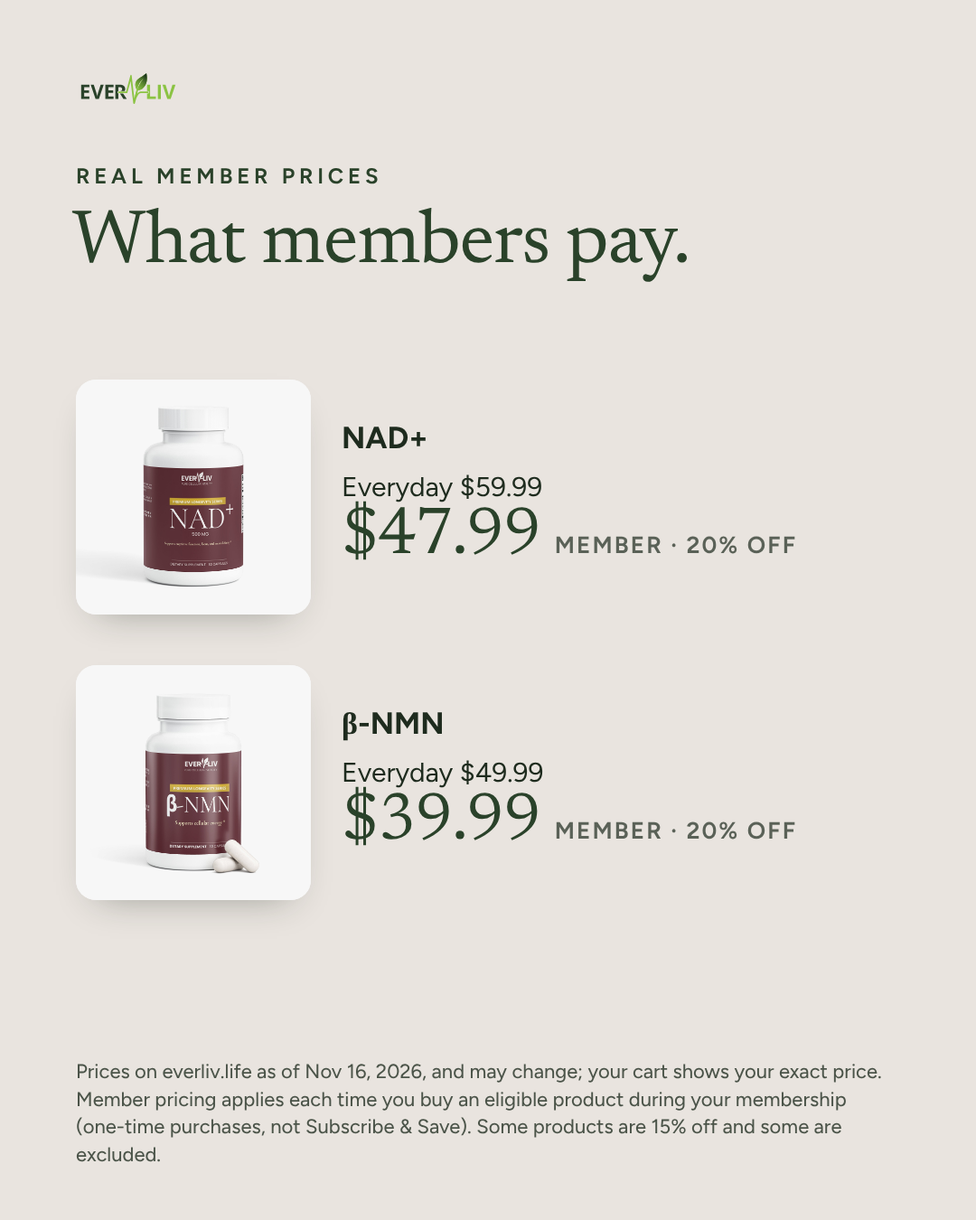
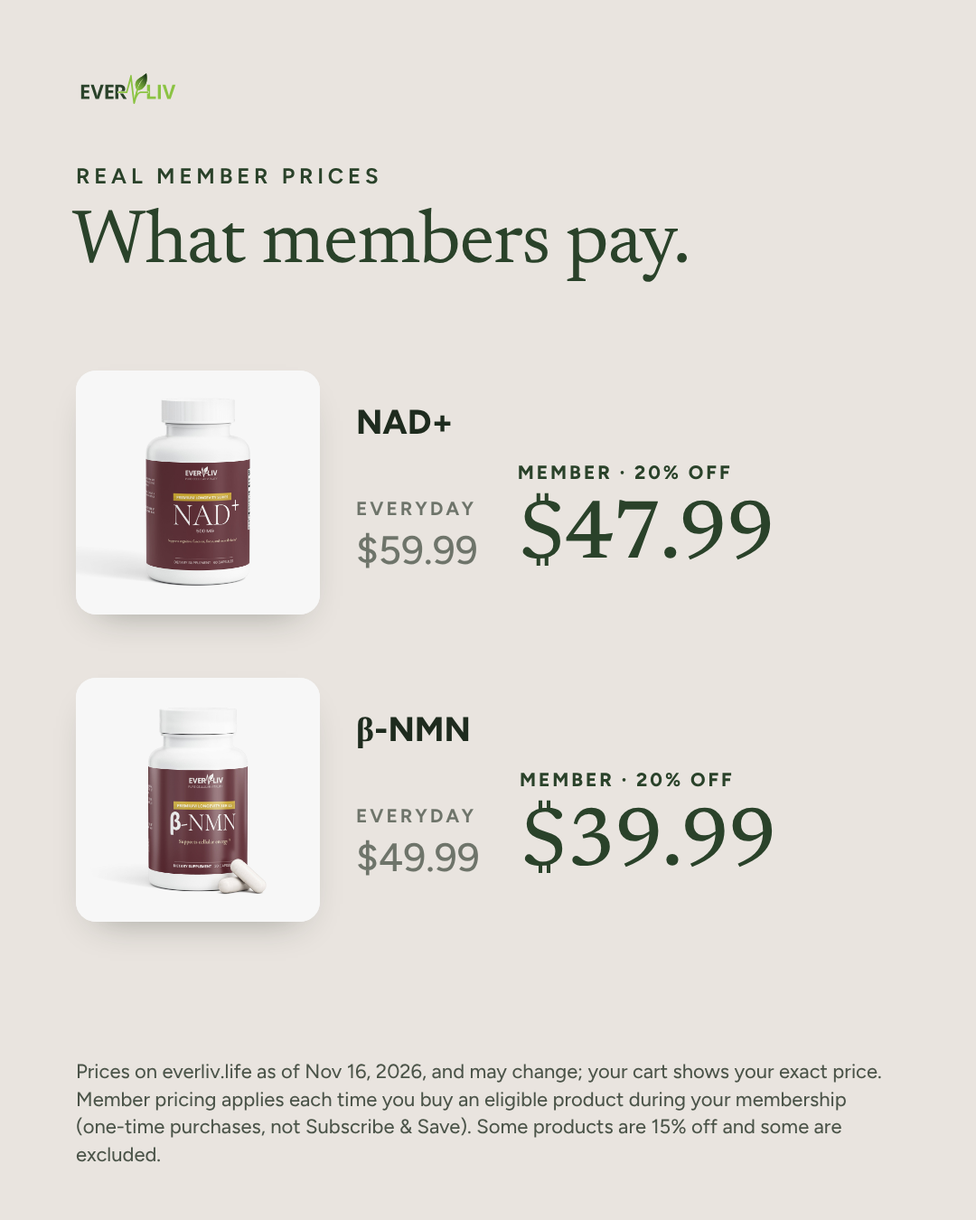
Founding Members rev 3: slide 3 price legibility, sticker zone, Shopify Messaging build sheet, single Restructuring handoff updated
Claude-Session: https://claude.ai/code/session_01XtbQQjuhLfL9EX7cTct2eV

diff --git a/campaigns/2026-founding-members/round-1/FM-02-carousel-3-what-members-pay_1080x1350.html b/campaigns/2026-founding-members/round-1/FM-02-carousel-3-what-members-pay_1080x1350.html
@@ -29,17 +29,25 @@ body{width:var(--w);height:var(--h);overflow:hidden;font-family:FT;-webkit-font-
 <img class="logo" src="file:///home/claude/fm/src/logo.svg" style="left:84px;top:78px;height:40px">
 <div class="eyebrow" style="position:absolute;left:84px;top:180px;color:#2A422A">Real member prices</div>
 <div class="serif" style="position:absolute;left:80px;top:228px;font-size:84px;line-height:1.02;color:#2A422A">What members pay.</div>
-<div style="position:absolute;left:84px;right:84px;top:420px;display:grid;gap:56px">
- <div style="display:flex;gap:34px;align-items:center">
-     <div class="tile" style="width:260px;height:260px;flex:none"><img src="file:///home/claude/fm/src/everliv-nad.jpg"></div>
-     <div><div style="font-size:34px;font-weight:700;line-height:1.2">NAD+</div>
-       <div style="margin-top:14px;font-size:30px">Everyday $59.99</div>
-       <div class="serif" style="font-size:74px;line-height:1.05;color:#2A422A">$47.99 <span style="font-family:FT;font-size:26px;font-weight:650;letter-spacing:.08em;color:#1E2B1E;opacity:.7">MEMBER · 20% OFF</span></div></div></div>
- <div style="display:flex;gap:34px;align-items:center">
-     <div class="tile" style="width:260px;height:260px;flex:none"><img src="file:///home/claude/fm/src/everliv-b-nmn.jpg"></div>
-     <div><div style="font-size:34px;font-weight:700;line-height:1.2">β-NMN</div>
-       <div style="margin-top:14px;font-size:30px">Everyday $49.99</div>
-       <div class="serif" style="font-size:74px;line-height:1.05;color:#2A422A">$39.99 <span style="font-family:FT;font-size:26px;font-weight:650;letter-spacing:.08em;color:#1E2B1E;opacity:.7">MEMBER · 20% OFF</span></div></div></div>
+<div style="position:absolute;left:84px;right:84px;top:410px;display:grid;gap:70px">
+ <div style="display:flex;gap:40px;align-items:center">
+     <div class="tile" style="width:270px;height:270px;flex:none"><img src="file:///home/claude/fm/src/everliv-nad.jpg"></div>
+     <div style="flex:1"><div style="font-size:38px;font-weight:750;line-height:1.15">NAD+</div>
+       <div style="display:flex;gap:44px;align-items:flex-end;margin-top:20px">
+         <div><div style="font-size:21px;font-weight:700;letter-spacing:.14em;opacity:.6">EVERYDAY</div>
+              <div style="font-size:44px;font-weight:500;line-height:1.1;margin-top:10px;margin-bottom:10px;opacity:.6">$59.99</div></div>
+         <div><div style="font-size:21px;font-weight:750;letter-spacing:.14em;color:#2A422A">MEMBER · 20% OFF</div>
+              <div class="serif" style="font-size:92px;line-height:1.05;margin-top:12px;color:#2A422A;font-weight:500">$47.99</div></div>
+       </div></div></div>
+ <div style="display:flex;gap:40px;align-items:center">
+     <div class="tile" style="width:270px;height:270px;flex:none"><img src="file:///home/claude/fm/src/everliv-b-nmn.jpg"></div>
+     <div style="flex:1"><div style="font-size:38px;font-weight:750;line-height:1.15">β-NMN</div>
+       <div style="display:flex;gap:44px;align-items:flex-end;margin-top:20px">
+         <div><div style="font-size:21px;font-weight:700;letter-spacing:.14em;opacity:.6">EVERYDAY</div>
+              <div style="font-size:44px;font-weight:500;line-height:1.1;margin-top:10px;margin-bottom:10px;opacity:.6">$49.99</div></div>
+         <div><div style="font-size:21px;font-weight:750;letter-spacing:.14em;color:#2A422A">MEMBER · 20% OFF</div>
+              <div class="serif" style="font-size:92px;line-height:1.05;margin-top:12px;color:#2A422A;font-weight:500">$39.99</div></div>
+       </div></div></div>
 </div>
 <div class="fine" style="position:absolute;left:84px;right:84px;bottom:56px">Prices on everliv.life as of Nov 16, 2026, and may change; your cart shows your exact price. Member pricing applies each time you buy an eligible product during your membership (one-time purchases, not Subscribe &amp; Save). Some products are 15% off and some are excluded.</div>
 </div></body></html>

diff --git a/campaigns/2026-founding-members/round-1/FM-05-email-black-friday.html b/campaigns/2026-founding-members/round-1/FM-05-email-black-friday.html
@@ -3,7 +3,7 @@
 <!-- Preheader --><div style="display:none;max-height:0;overflow:hidden">A full year of member pricing. $49.99, paid once. Founding price through January 31, 2027.</div>
 <table role="presentation" width="100%" cellpadding="0" cellspacing="0" style="background:#E9E4DF"><tr><td align="center" style="padding:24px 12px">
 <table role="presentation" width="100%" cellpadding="0" cellspacing="0" style="width:100%;max-width:600px;background:#ffffff;border-radius:14px;overflow:hidden">
-<tr><td><img src="FM-04-email-header_1200x600.png" width="600" alt="EverLiv Founding Member card. Become a Founding Member: a full year of member pricing, $49.99 paid once." style="display:block;width:100%;height:auto;border:0"></td></tr>
+<tr><td><img src="FM-04-email-header_1200x600.png" data-shopify-note="In Shopify Messaging, upload this file in an Image block (Shopify hosts it); do not reference a local filename" width="600" alt="EverLiv Founding Member card. Become a Founding Member: a full year of member pricing, $49.99 paid once." style="display:block;width:100%;height:auto;border:0"></td></tr>
 <tr><td class="px" style="padding:36px 40px 8px">
 <p style="margin:0 0 16px;font-size:17px;line-height:1.55">This Black Friday, we're not discounting products. We're opening membership.</p>
 <p style="margin:0 0 16px;font-size:17px;line-height:1.55">Join EverLiv Member Price Club as a Founding Member for <b>$49.99, paid once</b>. For the next 12 months, you get <b>member pricing every time you buy an eligible product</b>, as often as you like, across strips, capsules, powders and more.</p>
@@ -20,6 +20,6 @@
 <p style="margin:14px 0 0;font-size:14px;color:#5a665a">From February 1, 2027, membership is $69.99.</p>
 </td></tr>
 <tr><td class="px" style="padding:0 40px 32px;font-size:12px;line-height:1.55;color:#6b746b">
-Founding price $49.99 applies to memberships bought through January 31, 2027 (Eastern Time); $69.99 from February 1, 2027. Membership is a single payment, lasts 12 months from activation and does not renew automatically. During your membership, member pricing applies to every eligible one-time product purchase (not Subscribe &amp; Save): 20% or 15% off depending on the product, some products excluded. Doesn't combine with Subscribe &amp; Save, bundles, partner pricing or promo codes. Savings depend on what you buy and aren't guaranteed to exceed the fee. Refunds: full refund within 3 business days; within 30 days, a full refund if member pricing is unused, otherwise the fee minus savings received. Not currently available to residents of California or North Carolina. See the Membership Terms at everliv.life.<br><br>
-EverLiv LLC · 30 N Gould St. Ste R, Sheridan, WY 82801 · <a href="{{unsubscribe}}" style="color:#6b746b">Unsubscribe</a>
+Founding price $49.99 applies to memberships bought through January 31, 2027 (Eastern Time); $69.99 from February 1, 2027. Membership is a single payment, lasts 12 months from activation and does not renew automatically. During your membership, member pricing applies to every eligible one-time product purchase (not Subscribe &amp; Save): 20% or 15% off depending on the product, some products excluded. Doesn't combine with Subscribe &amp; Save, bundles, partner pricing or promo codes. Savings depend on what you buy and aren't guaranteed to exceed the fee. Refunds: full refund within 3 business days; within 30 days, a full refund if member pricing is unused, otherwise the fee minus savings received. Not currently available to residents of California or North Carolina. See the Membership Terms at everliv.life.
+<!-- Store address, unsubscribe link and required footer are added automatically by Shopify Messaging. Do not add a manual unsubscribe link. -->
 </td></tr></table></td></tr></table></body></html>

diff --git a/campaigns/2026-founding-members/round-1/build.py b/campaigns/2026-founding-members/round-1/build.py
@@ -86,16 +86,20 @@ A['FM-02-carousel-2-what-you-get_1080x1350'] = (1080,1350,'ivory',f"""
 """)
 
 def ex(img,name,reg,mem,pct):
-    return f"""<div style="display:flex;gap:34px;align-items:center">
-     <div class="tile" style="width:260px;height:260px;flex:none"><img src="{u(img)}"></div>
-     <div><div style="font-size:34px;font-weight:700;line-height:1.2">{name}</div>
-       <div style="margin-top:14px;font-size:30px">Everyday ${reg}</div>
-       <div class="serif" style="font-size:74px;line-height:1.05;color:{LEAF}">${mem} <span style="font-family:FT;font-size:26px;font-weight:650;letter-spacing:.08em;color:{INK};opacity:.7">MEMBER · {pct}% OFF</span></div></div></div>"""
+    return f"""<div style="display:flex;gap:40px;align-items:center">
+     <div class="tile" style="width:270px;height:270px;flex:none"><img src="{u(img)}"></div>
+     <div style="flex:1"><div style="font-size:38px;font-weight:750;line-height:1.15">{name}</div>
+       <div style="display:flex;gap:44px;align-items:flex-end;margin-top:20px">
+         <div><div style="font-size:21px;font-weight:700;letter-spacing:.14em;opacity:.6">EVERYDAY</div>
+              <div style="font-size:44px;font-weight:500;line-height:1.1;margin-top:10px;margin-bottom:10px;opacity:.6">${reg}</div></div>
+         <div><div style="font-size:21px;font-weight:750;letter-spacing:.14em;color:{LEAF}">MEMBER · {pct}% OFF</div>
+              <div class="serif" style="font-size:92px;line-height:1.05;margin-top:12px;color:{LEAF};font-weight:500">${mem}</div></div>
+       </div></div></div>"""
 A['FM-02-carousel-3-what-members-pay_1080x1350'] = (1080,1350,'ivory',f"""
 <img class="logo" src="{u('logo.svg')}" style="left:84px;top:78px;height:40px">
 <div class="eyebrow" style="position:absolute;left:84px;top:180px;color:{LEAF}">Real member prices</div>
 <div class="serif" style="position:absolute;left:80px;top:228px;font-size:84px;line-height:1.02;color:{LEAF}">What members pay.</div>
-<div style="position:absolute;left:84px;right:84px;top:420px;display:grid;gap:56px">
+<div style="position:absolute;left:84px;right:84px;top:410px;display:grid;gap:70px">
  {ex('everliv-nad.jpg','NAD+','59.99','47.99',20)}
  {ex('everliv-b-nmn.jpg','β-NMN','49.99','39.99',20)}
 </div>

diff --git a/campaigns/2026-founding-members/round-1/FM-captions-and-email-copy.md b/campaigns/2026-founding-members/round-1/FM-captions-and-email-copy.md
@@ -1,6 +1,16 @@
-# Founding Members: final-approval package (Round 1, revision 2)
-**Revised:** Nov 16, 2026, about 12:45 PM ET.
+# Founding Members: final-approval package (Round 1, revision 3)
+**Revised:** Nov 16, 2026, about 2:55 PM ET.
 **Status:** NOT scheduled, published or sent, and no paid ads. Launch depends on (a) Restructuring's shopping-flow repairs, verified end to end, and (b) Jeff's final approval.
+
+## Revision 3 changes (minor; design unchanged)
+1. **Carousel slide 3:** the prices are restructured for phone legibility. Each product now shows an "EVERYDAY" label over a 44 px grey price, then a "MEMBER · 20% OFF" label over a 92 px forest-green price. The product name is larger, at 38 px, and the tiles are slightly larger. The two prices sit side by side with clear labels, so they're easy to tell apart.
+2. **Story 3 link sticker:** the clean space is kept. **Place the sticker centred horizontally at about y = 1,000–1,240 px** of the 1,920 px frame, in the open green band between "$69.99 from February 1, 2027" and "Tap to join." It covers no text and stays clear of Instagram's top (250 px) and bottom (340 px) interface zones. In the app, that's roughly the middle of the screen, just above "Tap to join."
+3. **Email:**
+   - **Header image:** a Shopify Messaging build sheet is added (`FM-05-email-shopify-messaging-build-sheet.md`). The header is uploaded into a native Image block, so Shopify hosts it.
+   - **Footer:** the manual unsubscribe and address lines are removed from the reference HTML. Shopify Messaging adds the required footer and a working unsubscribe link.
+   - **CTA:** the URL with UTMs was re-verified at 2:50 PM and returns 200. The mobile layout was re-checked (fits 390 px).
+4. **Restructuring handoff:** updated in place, so it remains the single handoff. It now lists the five pages still showing "most eligible 20%" and states that CA/NC is **disclosed, not technically blocked**. It also asks only for evidence of checks that are genuinely outstanding, and confirms no change to Testosterone & NAD+ placements.
+5. **No other changes.** The card stays the primary visual, the "strips, capsules, powders and more" message stays, the break-even appears only in the carousel and email (not the launch image), and NAD+ and β-NMN remain the examples.
 
 ## Revision 2 changes (targeted; design unchanged)
 | # | Request | Change |
@@ -37,7 +47,7 @@
 | Join button | Disabled until the terms box is ticked, which is intended. Enabling it and checking out were not tested (no purchase). |
 | Mobile (375 px) NAD+ main "Add to Cart — $59.99" | ✓ Visible, enabled and tappable, with no horizontal overflow |
 | Mobile secondary "Add to Cart" further down the page | ⚠ My automated check couldn't confirm it's tappable. Restructuring should test it by hand. |
-| Member price after sign-in, cart, checkout, CA/NC restriction, purchase tracking | **Not testable by Marketing:** no accounts, purchases or test orders. These need Restructuring's end-to-end test. |
+| Member price after sign-in, cart, checkout, purchase tracking. (CA/NC is disclosed but not technically blocked, per owner.) | **Not testable by Marketing:** no accounts, purchases or test orders. These need Restructuring's end-to-end test. |
 
 ## Final launch-readiness checklist (to run after Restructuring reports its repairs complete; Marketing will re-run it)
 1. Member sign-in link works (desktop and mobile).
@@ -47,7 +57,7 @@
 5. Purchase tracking for the membership product is confirmed (GA4 and Meta purchase events). This is required before any paid ads.
 6. Strip availability is rechecked the morning of publishing. If Sleep or Collagen is back, the six-tin family image can return.
 7. Prices in carousel slide 3 are rechecked the morning of publishing.
-8. Ads geo-exclusion for CA and NC is confirmed in the ad account, if ads are approved later.
+8. If ads are approved later, the CA/NC geo-exclusion is set in the ad account. The restriction is disclosed on site but not technically blocked at checkout.
 
 ## Assets
 **Feed, 1080×1350:**
@@ -112,8 +122,30 @@
 
 **Body:** see `FM-05-email-black-friday.html`. On a 390 px phone screen it has no sideways scrolling, and the CTA is 300×52 px.
 
-**Unsubscribe:** the `{{unsubscribe}}` placeholder must be replaced by Shopify Messaging's own unsubscribe link and footer when the email is rebuilt there. Send only to opted-in subscribers.
+**Build:** in Shopify Messaging, use `FM-05-email-shopify-messaging-build-sheet.md`. Shopify hosts the header image and adds the footer and a working unsubscribe link. Send only to opted-in subscribers, after explicit approval.
 
 ## Still on hold
 - **Paid advertising.** Purchase tracking, the CA/NC geo-exclusion and membership restrictions all need to be verified first, and you need to approve a budget.
 - **Strip tins in paid ads.** They carry the unverified "Natural Extracts", so they stay in organic posts only.
+
+## Launch-readiness summary (2:55 PM ET, Nov 16)
+**Marketing: complete, pending your final approval**
+- Final assets: the launch post, 5-slide carousel, 3 stories and the email header.
+- Captions, alt text and UTMs.
+- The Shopify Messaging build sheet and reference email.
+- **Live check, 2:50 PM:**
+  - NAD+ $59.99 → $47.99 and β-NMN $49.99 → $39.99, both 20% and both available.
+  - The membership offer text ($49.99 through Jan 31, 2027 ET; $69.99 from Feb 1, 2027) is live.
+  - The CTA URL works.
+
+**Outstanding: Restructuring** (see the single handoff)
+1. Fix "most eligible 20%" on 5 pages. The terms page wording is the owner's or attorney's call.
+2. Evidence of enrollment, sign-in, cart and checkout passing on mobile and desktop.
+3. The secondary mobile "Add to Cart" button.
+4. GA4 and Meta Purchase events.
+5. Whether a CA/NC checkout block is planned.
+6. Inventory and price checks on launch morning.
+
+**Then:**
+- **Marketing:** a final live re-check on Nov 26 or 27, followed by your go/no-go.
+- **Jeff:** authorise publishing, the email send and (separately) any paid ads.

diff --git a/campaigns/2026-founding-members/round-1/restructuring-coordination-founding-launch-2026-11-16.md b/campaigns/2026-founding-members/round-1/restructuring-coordination-founding-launch-2026-11-16.md
@@ -1,12 +1,18 @@
-# Marketing → Restructuring: Founding Member launch coordination (Nov 16, 2026, 12:45 PM ET)
-Marketing has made **no live changes**. The Black Friday launch on Nov 27 depends on these items.
+# Marketing → Restructuring: Founding Member launch coordination (single handoff)
+**Updated:** Nov 16, 2026, 2:50 PM ET.
 
-| # | Item | Request |
+Marketing has made **no storefront changes**. This is the single handoff for the Nov 27 launch. **Where a check is already documented as passing, just link its evidence; there's no need to repeat it.**
+
+| # | Item | Status / request |
 |---|---|---|
-| 1 | **"Most eligible products 20%" is inaccurate** | Product pages show **19 products at 20%, 21 at 15%**, and 4 with no member price (membership, 2 wheys, Ultimate Bundle). The membership page, membership product page and Ways to Save all say "most eligible products 20%, some 15%". Suggested replacement: "20% or 15% off, depending on the product." All Marketing creative now uses this wording. |
-| 2 | **Peptide Eye Gel-Cream packaging discrepancy** | The store name is "Peptide Eye Gel-Cream", but the physical label (confirmed on a shipped unit, and matching Supliful's label file) reads "Peptide Eye Serum". Please confirm through your Supliful thread which name is final and whether a label change is planned. Marketing has pulled the product from the campaign's price examples until this is resolved. |
-| 3 | **End-to-end shopping test (mobile and desktop)**, needed before Marketing's final go | (a) Membership enrollment: add to cart → terms → checkout → confirmation email. (b) Sign in as a member → member price shown on a product page → cart → checkout, all matching. Test at least NAD+, β-NMN and one strip. (c) Mobile purchase buttons. Marketing's read-only check found the main "Add to Cart — $59.99" on NAD+ working at 375 px, but couldn't confirm the secondary "Add to Cart" further down the page. (d) The CA/NC restriction: how is it enforced at checkout? (e) GA4 and Meta Purchase events for the membership product. |
-| 4 | **Availability on launch morning (Nov 27)** | Confirm the status of Sleep and Collagen. Marketing's purchase-driving creative currently shows only Energy, Hydrate, Iron and D3+K2. |
-| 5 | **Minor** | The membership page still says "Our best everyday pricing" (from the earlier audit, item R21). |
+| 1 | **"Most eligible products 20%" is inaccurate** | Product pages show **19 products at 20%, 21 at 15%**, and 4 with no member price (membership, 2 wheys, Ultimate Bundle). The wording is **still live** as of 2:50 PM in: `/pages/membership` ("most products up to 20%, select products 15%"); `/products/everliv-founding-membership-annual` ("most eligible products are 20% off, some 15%"); `/pages/ways-to-save` ("most eligible products 20%, some 15%, some excluded"); `/pages/faq` (same); and `/pages/membership-terms` ("Most eligible products are 20% off; some are 15% off"). The terms page is attorney territory, so the owner decides. **Suggested replacement:** "20% or 15% off, depending on the product." All Marketing creative already uses this. |
+| 2 | **Enrollment, member sign-in, cart and checkout (mobile and desktop)** | Needs evidence (or links to passing results) for: membership add to cart → terms → checkout → confirmation email; signed-in member sees the member price on product, cart and checkout (NAD+, β-NMN and one strip); member sign-in links. Marketing's read-only check at 12:30 PM: the sign-in link reaches the Shopify login page. |
+| 3 | **Secondary mobile "Add to Cart"** | The main "Add to Cart — $59.99" on NAD+ works at 375 px. The second "Add to Cart" further down the page couldn't be confirmed by Marketing's check. Please confirm it, or link the evidence. |
+| 4 | **GA4 and Meta Purchase events** | Needs evidence that a membership purchase fires Purchase in GA4 (G-5330FJ4YNN) and Meta (1988505591941780). Page-view tracking was observed by Marketing. Paid ads stay held until this passes. |
+| 5 | **California / North Carolina** | The restriction is **disclosed, but not technically blocked at checkout** (owner, Nov 16). Marketing creative states "Not available to residents of CA or NC" and **never describes it as enforced**. Request: confirm whether a checkout block is planned, so paid ads (if approved later) can geo-exclude CA and NC. |
+| 6 | **Inventory and prices before Nov 27** | On launch morning, confirm availability and price for: NAD+ ($59.99 / $47.99 member), β-NMN ($49.99 / $39.99), Energy, Hydrate, Iron and D3+K2 strips, plus the status of Sleep and Collagen. All were verified live at 2:50 PM Nov 16. |
+| 7 | **Peptide Eye Gel-Cream name vs label** | The label reads "Peptide Eye Serum"; the store reads "Gel-Cream". This is with your Supliful thread. The campaign no longer uses this product, so it isn't a launch blocker. |
 
-**What Marketing needs back:** a pass/fail for each item in #3 (with timestamps), the decision on #2, and the final wording for #1. Marketing will then re-run its live checks and give Jeff the go/no-go.
+**No change requested to Testosterone & NAD+ placements.** It stays in its current homepage hero and featured placements (owner, Nov 16). Its availability is with Restructuring, pending Quantus documentation.
+
+**What Marketing needs back:** pass/fail with evidence (or links) for items 2–5, the decision on item 1, and the launch-morning results for item 6. Marketing will then give Jeff the final go/no-go.

diff --git a/campaigns/2026-founding-members/round-1/FM-05-email-shopify-messaging-build-sheet.md b/campaigns/2026-founding-members/round-1/FM-05-email-shopify-messaging-build-sheet.md
@@ -1,0 +1,37 @@
+# Founding Members launch email: Shopify Messaging build sheet
+**Status:** ready to build. **Do not send or schedule.** Send only to opted-in subscribers, and only after Jeff's explicit approval. **No test sends to customers.**
+
+## Why build it natively
+- **Header image:** uploading it into a Shopify Messaging **Image** block makes Shopify host it on its own CDN, so it displays in the sent email. Never point to a local filename.
+- **Footer:** Shopify Messaging adds the store address, a working **unsubscribe** link and the required footer to every marketing email. No manual unsubscribe link is needed; the reference HTML no longer contains one.
+
+## Blocks, in order
+| # | Shopify Messaging block | Content |
+|---|---|---|
+| — | **Subject** | Become a Founding Member *(alternatives: "This Black Friday, we're opening membership" · "A full year of member pricing, $49.99 once")* |
+| — | **Preview text** | A full year of member pricing. $49.99, paid once. Founding price through January 31, 2027. |
+| 1 | **Image** | Upload `FM-04-email-header_1200x600.png`. Full width. Alt text: "EverLiv Founding Member card. Become a Founding Member: a full year of member pricing, $49.99 paid once." Link it to the CTA URL below. |
+| 2 | **Text** | This Black Friday, we're not discounting products. We're opening membership. |
+| 3 | **Text** | Join EverLiv Member Price Club as a Founding Member for **$49.99, paid once**. For the next 12 months, you get **member pricing every time you buy an eligible product**, as often as you like, across strips, capsules, powders and more. |
+| 4 | **Text** (or a shaded section) | ✓ Member pricing on every eligible order for 12 months<br>✓ Up to 20% off: 20% or 15%, depending on the product<br>✓ One $49.99 payment. No automatic renewal<br>✓ No product subscription required<br>✓ Founding price through January 31, 2027 (ET) |
+| 5 | **Text** | **Is it worth it?** If everything you buy is eligible for the full 20%, membership covers its fee after about $250 of purchases in 12 months. On 15% products it takes about $333. If you shop less often, everyday prices or Subscribe & Save may suit you better. |
+| 6 | **Button** | Label: **Become a Founding Member** · colour #2A422A, text #E9E4DF · URL below |
+| 7 | **Text** (small, centred) | From February 1, 2027, membership is $69.99. |
+| 8 | **Text** (small, grey) | Founding price $49.99 applies to memberships bought through January 31, 2027 (Eastern Time); $69.99 from February 1, 2027. Membership is a single payment, lasts 12 months from activation and does not renew automatically. During your membership, member pricing applies to every eligible one-time product purchase (not Subscribe & Save): 20% or 15% off depending on the product, some products excluded. Doesn't combine with Subscribe & Save, bundles, partner pricing or promo codes. Savings depend on what you buy and aren't guaranteed to exceed the fee. Refunds: full refund within 3 business days; within 30 days, a full refund if member pricing is unused, otherwise the fee minus savings received. Not currently available to residents of California or North Carolina. See the Membership Terms at everliv.life. |
+| — | **Footer** | Shopify's automatic footer: address and unsubscribe. Confirm it in the preview. |
+
+**CTA URL** (verified 200 at 2:50 PM ET, Nov 16):
+`https://everliv.life/pages/membership?utm_source=email&utm_medium=email&utm_campaign=founding-members-2026&utm_content=bf-launch`
+
+**Audience:** email subscribers who have accepted marketing (Shopify's "Email subscribers" segment). No purchased or imported lists without a consent record.
+
+## Pre-send checks (after building, before Jeff's approval)
+1. In Shopify Messaging's **desktop and mobile previews**, the header image displays and the button is full-width on mobile.
+2. The footer shows the store address and an unsubscribe link.
+3. Send a **test to an internal address only** (e.g. support@everliv.life), not to customers. Then confirm on a real phone:
+   - the image loads
+   - the button opens the membership page with the UTM intact
+   - the unsubscribe link works
+4. Recheck prices and dates the morning of the send.
+
+The reference layout is `FM-05-email-black-friday.html`, with previews `--preview-desktop.png` and `--preview-mobile.png`. It fits a 390 px screen with no horizontal scroll, and the CTA is 300×52 px.
